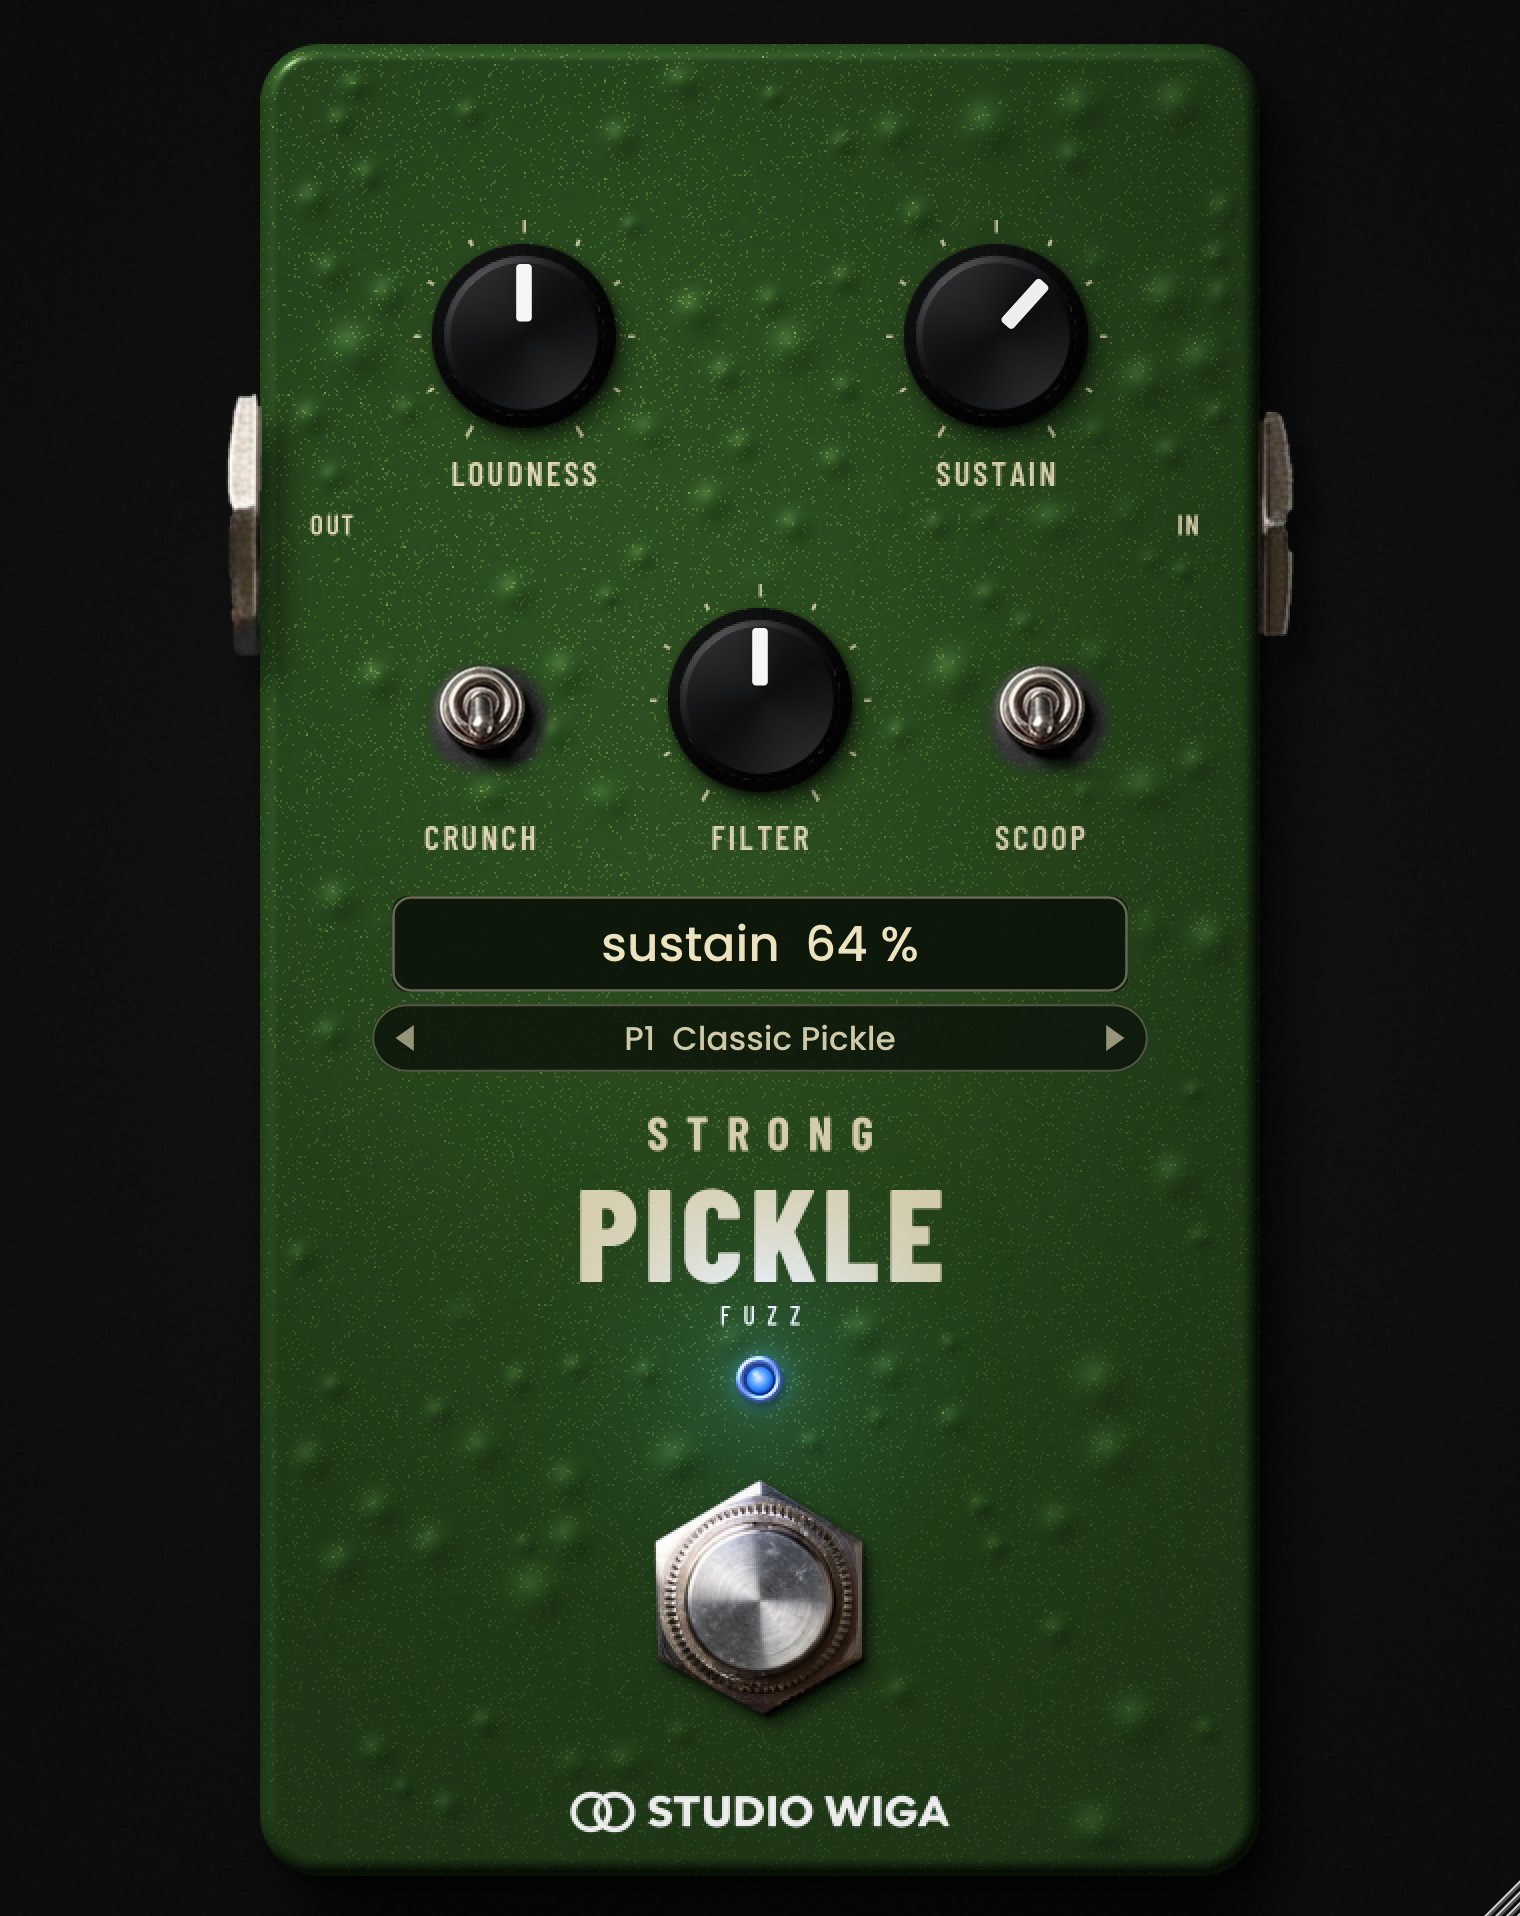
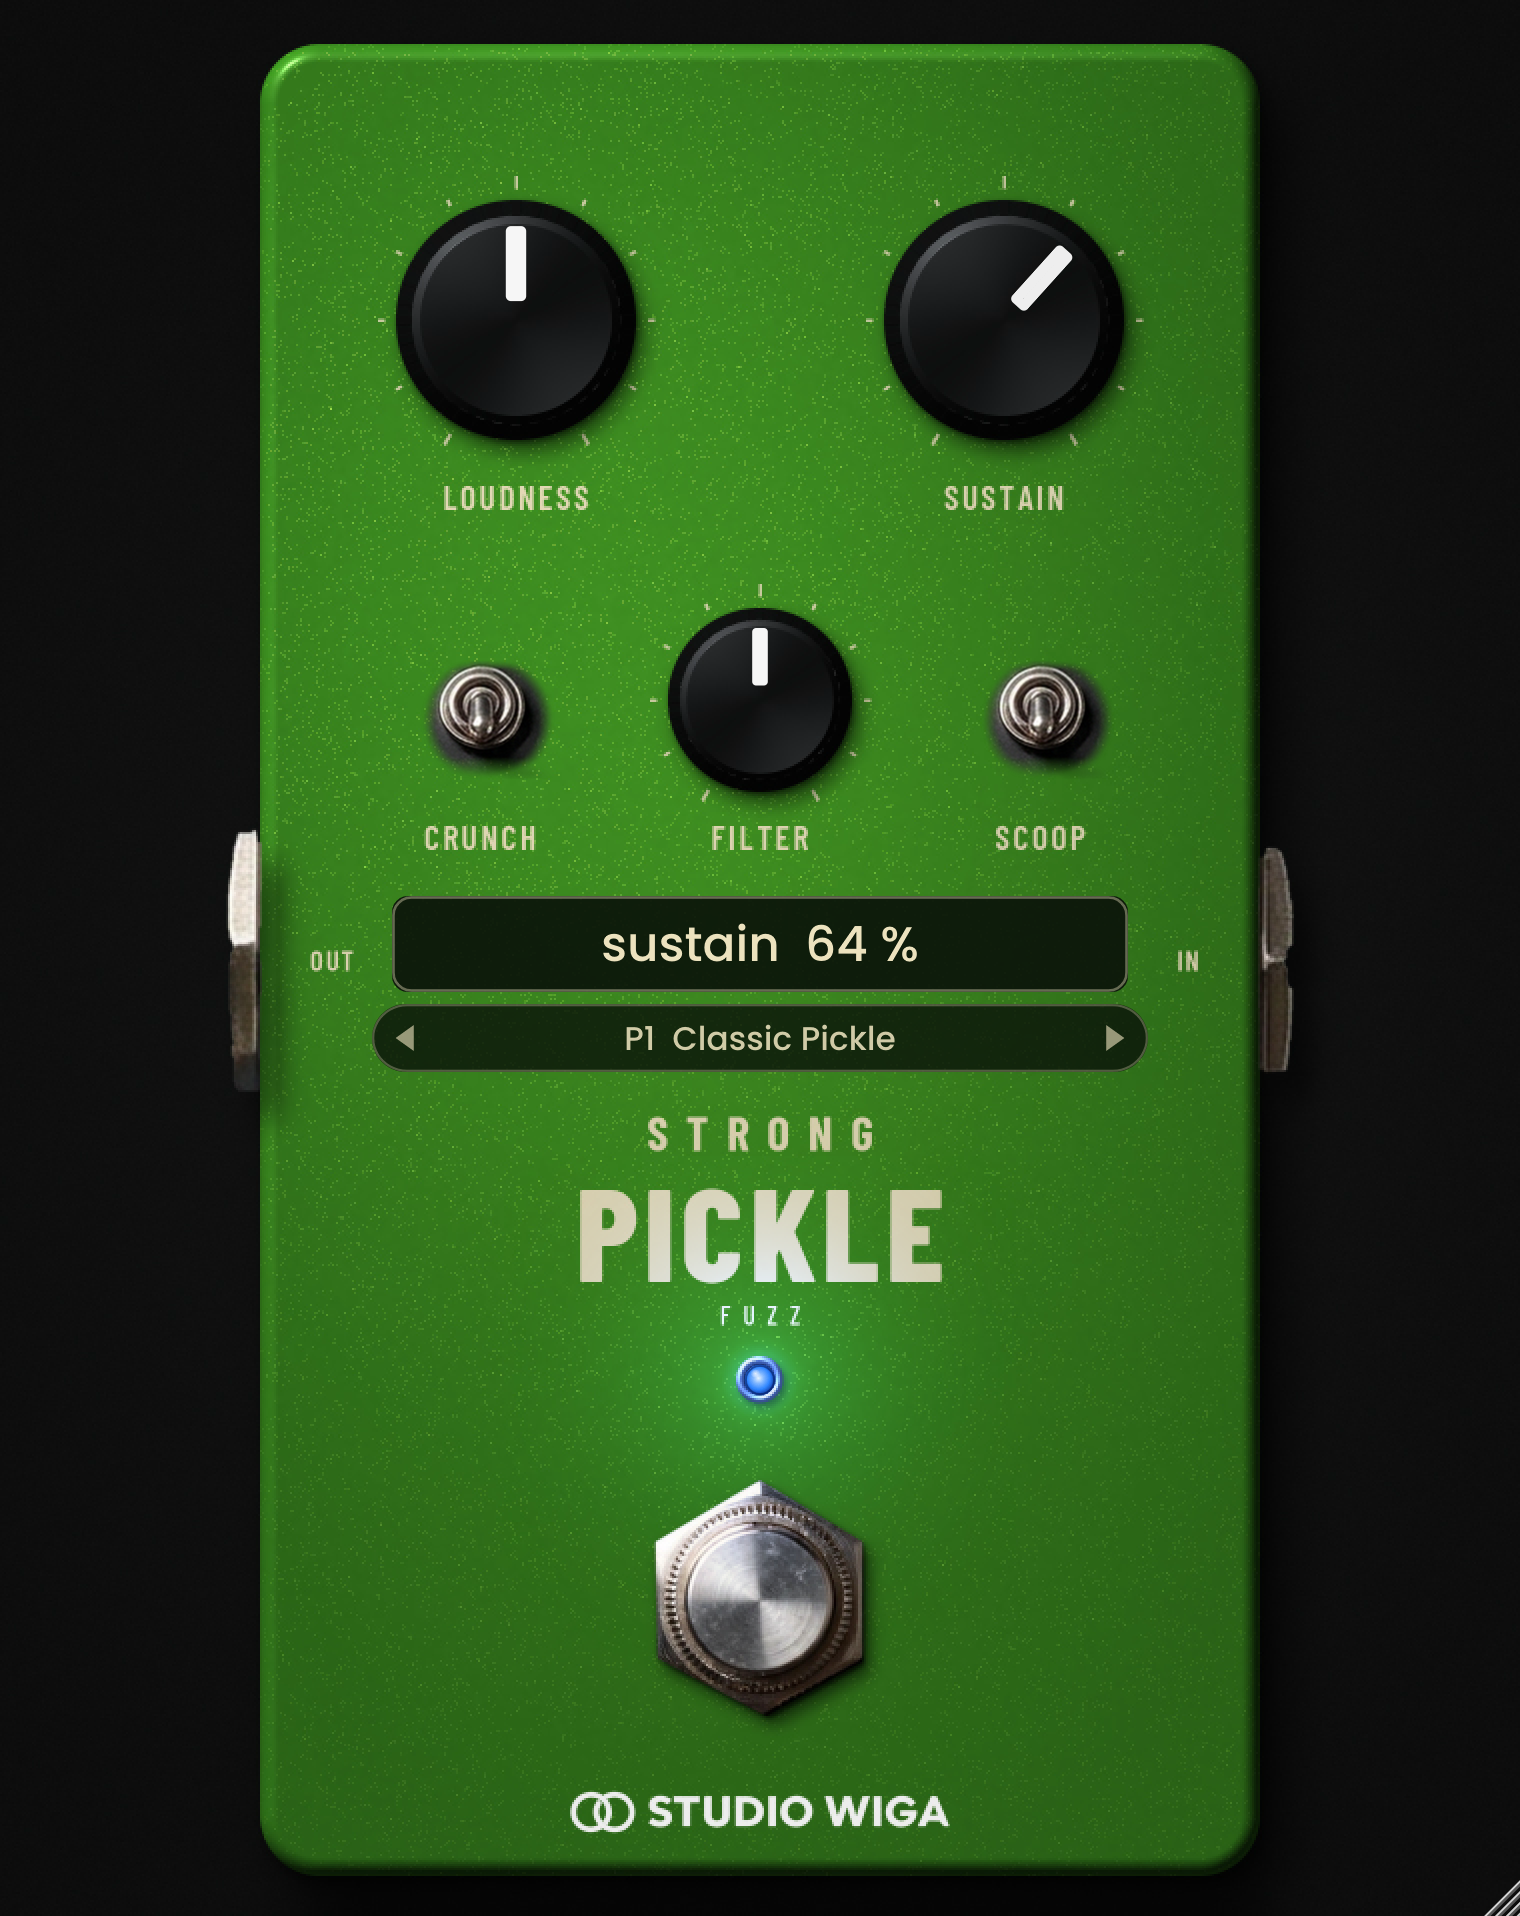
Strong Pickle v1.0.0 : jacks au milieu, facade lisse vert vif, gros potards du haut, preset Siamese Dream
Claude-Session: https://claude.ai/code/session_01M5BvnKD25x5sTgnxyi1aHz

diff --git a/tools/make_background.py b/tools/make_background.py
@@ -32,15 +32,16 @@ rng = np.random.default_rng(41)
 
 # ------------------------------------------------------------------ reperes (unites 760 x 958)
 PEDAL = (130.0, 22.0, 630.0, 938.0); PR = 30.0                     # boitier, rayon des angles
-KNOB_R = 46.0
-KNOBS = {'loudness': (262.0, 168.0), 'sustain': (498.0, 168.0), 'filter': (380.0, 350.0)}
+KNOB_R = 46.0                                                      # FILTER
+KNOB_RS = {'loudness': 60.0, 'sustain': 60.0, 'filter': KNOB_R}     # v1.0 : gros potards du haut, comme sur la Swollen Pickle
+KNOBS = {'loudness': (258.0, 160.0), 'sustain': (502.0, 160.0), 'filter': (380.0, 350.0)}
 TOGGLES = {'crunch': (240.0, 352.0), 'scoop': (520.0, 352.0)}
 TOG_SCALE = 0.86                                                   # kit FreakOut -> Strong Pickle
 LED = (380.0, 690.0); LED_R = 7.6
 FOOT = (380.0, 800.0); FOOT_FLATS = 104.0                          # largeur entre plats de l'ecrou
 STATUS = (196.0, 448.0, 368.0, 48.0)
 PRESET = (186.0, 502.0, 388.0, 34.0)
-JACK_Y = 262.0
+JACK_Y = 480.0                                                     # jacks au milieu de la hauteur du boitier
 GLOW = (LED[0] - 128.0, LED[1] - 112.0, 256.0, 256.0)
 
 U = lambda v: v * PX
@@ -81,7 +82,7 @@ sh_far = blur((rrect_sdf(ux - 13, uy - 19, x0, y0, x1, y1, PR) < 0).astype(np.fl
 sh_near = blur((rrect_sdf(ux - 3, uy - 5, x0, y0, x1, y1, PR) < 0).astype(np.float32), 3.5)
 bg *= (1 - 0.62 * sh_far[..., None]) * (1 - 0.45 * sh_near[..., None])
 
-# relief : bord arrondi de la fonderie (rayon 9 unites) + verrues de cornichon dans la peinture
+# relief : bord arrondi de la fonderie (rayon 9 unites) ; facade lisse (pas de verrues)
 BEV = 9.0
 d_in = np.clip(-sd, 0, None)
 h = BEV * np.sqrt(np.clip(1 - np.clip(1 - d_in / BEV, 0, 1) ** 2, 0, 1))
@@ -94,7 +95,7 @@ def clear_disk(c, rr):
 def clear_rect(x, y, w, hh, pad=8):
     global clear
     clear = np.maximum(clear, ((ux > x - pad) & (ux < x + w + pad) & (uy > y - pad) & (uy < y + hh + pad)).astype(np.float32))
-for c in KNOBS.values(): clear_disk(c, KNOB_R + 16)
+for k_, c in KNOBS.items(): clear_disk(c, KNOB_RS[k_] + 16)
 for c in TOGGLES.values(): clear_disk(c, 34)
 clear_disk(LED, 24); clear_disk(FOOT, 74)
 clear_rect(STATUS[0], STATUS[1], STATUS[2], PRESET[1] + PRESET[3] - STATUS[1], 10)
@@ -104,27 +105,12 @@ clear_rect(250, 890, 260, 34, 4)           # logo
 clear_rect(140, JACK_Y - 14, 52, 28, 2); clear_rect(568, JACK_Y - 14, 52, 28, 2)
 clear = blur(clear, 6)
 
-bumps = np.zeros((H2, W2), np.float32)
-pts = []
-tries = 0
-while len(pts) < 170 and tries < 20000:
-    tries += 1
-    px_, py_ = rng.uniform(x0 + 16, x1 - 16), rng.uniform(y0 + 16, y1 - 16)
-    rr_ = rng.uniform(5.0, 14.0)
-    if any(math.hypot(px_ - a, py_ - b) < (rr_ + c) * 1.25 for a, b, c in pts): continue
-    pts.append((px_, py_, rr_))
-for px_, py_, rr_ in pts:
-    xa, xb = int(max(0, U(px_ - rr_ * 2))), int(min(W2, U(px_ + rr_ * 2)))
-    ya, yb = int(max(0, U(py_ - rr_ * 2))), int(min(H2, U(py_ + rr_ * 2)))
-    d2 = ((ux[ya:yb, xa:xb] - px_) ** 2 + (uy[ya:yb, xa:xb] - py_) ** 2) / (rr_ * rr_)
-    bumps[ya:yb, xa:xb] += 1.6 * rr_ / 8.0 * np.exp(-d2 * 1.6)
-bumps *= (1 - clear) * smooth(4, 22, d_in)
-h = h + bumps
+bumps = np.zeros((H2, W2), np.float32)   # v1.0 : texture cornichon en relief retiree, facade lisse
 N = normals(h, PX)
 
 # peinture vert cornichon metallisee : couleur de base + paillettes dorees + leger peau d'orange
-base_col = np.array([46, 82, 33], np.float32)
-dark_col = np.array([26, 50, 22], np.float32)
+base_col = np.array([66, 150, 34], np.float32)     # vert vif metallise, proche de la Swollen Pickle
+dark_col = np.array([38, 98, 22], np.float32)
 # degrade : centre un peu plus clair, bords plus sombres (peinture plus fine sur les aretes)
 cg = np.clip(1 - np.hypot((ux - 380) / 300, (uy - 470) / 520), 0, 1)
 col = dark_col + (base_col - dark_col) * (0.55 + 0.45 * cg)[..., None]
@@ -188,8 +174,8 @@ def text_layer(items):
             x += w_ + sp
     return np.asarray(lay).astype(np.float32) / 255
 
-labels = [('LOUDNESS', (262, 236), 'BarlowCondensed-SemiBold.ttf', (17, 1.6)),
-          ('SUSTAIN', (498, 236), 'BarlowCondensed-SemiBold.ttf', (17, 1.6)),
+labels = [('LOUDNESS', (258, 248), 'BarlowCondensed-SemiBold.ttf', (17, 1.6)),
+          ('SUSTAIN', (502, 248), 'BarlowCondensed-SemiBold.ttf', (17, 1.6)),
           ('FILTER', (380, 418), 'BarlowCondensed-SemiBold.ttf', (17, 1.6)),
           ('CRUNCH', (240, 418), 'BarlowCondensed-SemiBold.ttf', (17, 1.6)),
           ('SCOOP', (520, 418), 'BarlowCondensed-SemiBold.ttf', (17, 1.6)),
@@ -205,10 +191,11 @@ img = img * (1 - ta[..., None]) + inkc * ta[..., None]
 
 # petits ticks de course autour des potards (repere 7 h -> 5 h), encre creme
 tick = Image.new('L', (W2, H2), 0); dt = ImageDraw.Draw(tick)
-for (cx, cy) in KNOBS.values():
+for kname, (cx, cy) in KNOBS.items():
+    KR = KNOB_RS[kname]
     for k in range(11):
         a = math.radians(-150 + 30 * k)
-        r0, r1 = KNOB_R + 6, KNOB_R + (12 if k in (0, 5, 10) else 9)
+        r0, r1 = KR + 6, KR + (12 if k in (0, 5, 10) else 9)
         p0 = (U(cx + r0 * math.sin(a)), U(cy - r0 * math.cos(a))); p1 = (U(cx + r1 * math.sin(a)), U(cy - r1 * math.cos(a)))
         dt.line([p0, p1], fill=255, width=int(U(1.6)))
 tk = np.asarray(tick).astype(np.float32) / 255 * 0.85
@@ -252,9 +239,11 @@ def render_knob(R):
     mask = cv2.resize(mask, (n // SS, n // SS), interpolation=cv2.INTER_AREA)
     return rgb, mask
 
-krgb, kmask = render_knob(KNOB_R)
-kn = krgb.shape[0]
-for (cx, cy) in KNOBS.values():
+_kcache = {}
+for kname, (cx, cy) in KNOBS.items():
+    if KNOB_RS[kname] not in _kcache: _kcache[KNOB_RS[kname]] = render_knob(KNOB_RS[kname])
+    krgb, kmask = _kcache[KNOB_RS[kname]]
+    kn = krgb.shape[0]
     xa, ya = int(round(U(cx) - kn / 2)), int(round(U(cy) - kn / 2))
     # ombre portee (douce) + ombre de contact
     shadow = np.zeros((H2, W2), np.float32)
@@ -343,7 +332,7 @@ TOG_HALF = TS / PX / 2
 out = np.clip(img, 0, 255).astype(np.uint8)
 Image.fromarray(out).save(os.path.join(ROOT, 'background.jpg'), quality=93, subsampling=0)
 
-lay = dict(knobs=[list(KNOBS[k]) for k in ('loudness', 'sustain', 'filter')], knobR=KNOB_R,
+lay = dict(knobs=[list(KNOBS[k]) for k in ('loudness', 'sustain', 'filter')], knobR=[KNOB_RS[k] for k in ('loudness', 'sustain', 'filter')],
            toggles=[list(TOGGLES[k]) for k in ('crunch', 'scoop')], togHalf=TOG_HALF,
            led=list(LED), ledR=LED_R, foot=list(FOOT), footR=FOOT_R, glow=list(GLOW),
            status=list(STATUS), preset=list(PRESET), pedal=list(PEDAL))
@@ -356,7 +345,7 @@ open(os.path.join(ROOT, 'Layout.h'), 'w').write(f"""// genere par tools/make_bac
 namespace layout
 {{
     const juce::Point<float> knobPos[3] = {{ {P(KNOBS['loudness'])}, {P(KNOBS['sustain'])}, {P(KNOBS['filter'])} }};
-    const float knobR = {KNOB_R:.2f}f;
+    const float knobR[3] = {{ {KNOB_RS['loudness']:.2f}f, {KNOB_RS['sustain']:.2f}f, {KNOB_RS['filter']:.2f}f }};
     const juce::Point<float> crunchPos {P(TOGGLES['crunch'])}, scoopPos {P(TOGGLES['scoop'])};
     const float togHalf = {TOG_HALF:.2f}f;
     const juce::Point<float> ledPos {P(LED)}; const float ledR = {LED_R:.2f}f;

diff --git a/PluginEditor.cpp b/PluginEditor.cpp
@@ -8,7 +8,7 @@ namespace
 {
     // Positions dans le repere de reference 760 x 958 (fond 1520 x 1916), generees par tools/make_background.py
     const Point<float>* const knobPos = layout::knobPos;
-    const float knobR = layout::knobR;
+    const float* const knobRs = layout::knobR;
     const Point<float> crunchPos = layout::crunchPos, scoopPos = layout::scoopPos;
     const float togHalf = layout::togHalf;
     const Point<float> ledPos = layout::ledPos;
@@ -284,7 +284,7 @@ void PickleAudioProcessorEditor::resized()
 {
     // anti-gel : jamais de setSize ici ; les limites du constrainer suffisent
     for (int i = 0; i < PickleAudioProcessor::numKnobs; ++i)
-        knobs[i].setBounds (scaled ({ knobPos[i].x - knobR, knobPos[i].y - knobR, knobR * 2.0f, knobR * 2.0f }));
+        knobs[i].setBounds (scaled ({ knobPos[i].x - knobRs[i], knobPos[i].y - knobRs[i], knobRs[i] * 2.0f, knobRs[i] * 2.0f }));
     auto lever = [this] (LeverSwitch& l, Point<float> c)
     {
         l.setBounds (scaled ({ c.x - togHalf, c.y - togHalf, togHalf * 2.0f, togHalf * 2.0f }));

diff --git a/PluginProcessor.cpp b/PluginProcessor.cpp
@@ -10,7 +10,7 @@ static const PicklePreset factoryPresets[] =
 {
     //  nom                      loud  sust  filt  crunch scoop
     { "Classic Pickle",          5.0f, 5.0f, 5.0f, 0, 0 },   // les deux inverseurs en bas : la Swollen Pickle a trois potards
-    { "Jumbo Wall",              5.0f, 8.0f, 4.5f, 0, 1 },
+    { "Siamese Dream",           5.0f, 7.0f, 5.5f, 0, 0 },   // Big Muff op-amp de Corgan : sustain vers 14 h, tone a midi, mediums a peine creuses, compresse
     { "Smooth Low Fuzz",         6.0f, 2.5f, 5.0f, 0, 0 },   // sustain vers 9 h : fuzz lisse
     { "Sputter Zone",            5.5f, 5.0f, 5.5f, 0, 0 },   // sustain a midi : les fins de notes crachotent
     { "Open Crunch",             4.5f, 6.0f, 6.0f, 1, 0 },

diff --git a/Layout.h b/Layout.h
@@ -3,8 +3,8 @@
 #include <juce_graphics/juce_graphics.h>
 namespace layout
 {
-    const juce::Point<float> knobPos[3] = { { 262.00f, 168.00f }, { 498.00f, 168.00f }, { 380.00f, 350.00f } };
-    const float knobR = 46.00f;
+    const juce::Point<float> knobPos[3] = { { 258.00f, 160.00f }, { 502.00f, 160.00f }, { 380.00f, 350.00f } };
+    const float knobR[3] = { 60.00f, 60.00f, 46.00f };
     const juce::Point<float> crunchPos { 240.00f, 352.00f }, scoopPos { 520.00f, 352.00f };
     const float togHalf = 40.75f;
     const juce::Point<float> ledPos { 380.00f, 690.00f }; const float ledR = 7.60f;

diff --git a/README.md b/README.md
@@ -65,7 +65,7 @@ Pédale d'expression sans saccades : rampe vers chaque nouvelle valeur sur l'int
 
 ## Presets d'usine
 
-1. Classic Pickle · 2. Jumbo Wall · 3. Smooth Low Fuzz · 4. Sputter Zone · 5. Open Crunch · 6. Scooped Power Chords ·
+1. Classic Pickle · 2. Siamese Dream · 3. Smooth Low Fuzz · 4. Sputter Zone · 5. Open Crunch · 6. Scooped Power Chords ·
 7. Dark Wool · 8. Bright Lead · 9. Amp Pusher · 10. Bass Pickle · 11. Doom Sludge
 
 ## Fichiers
